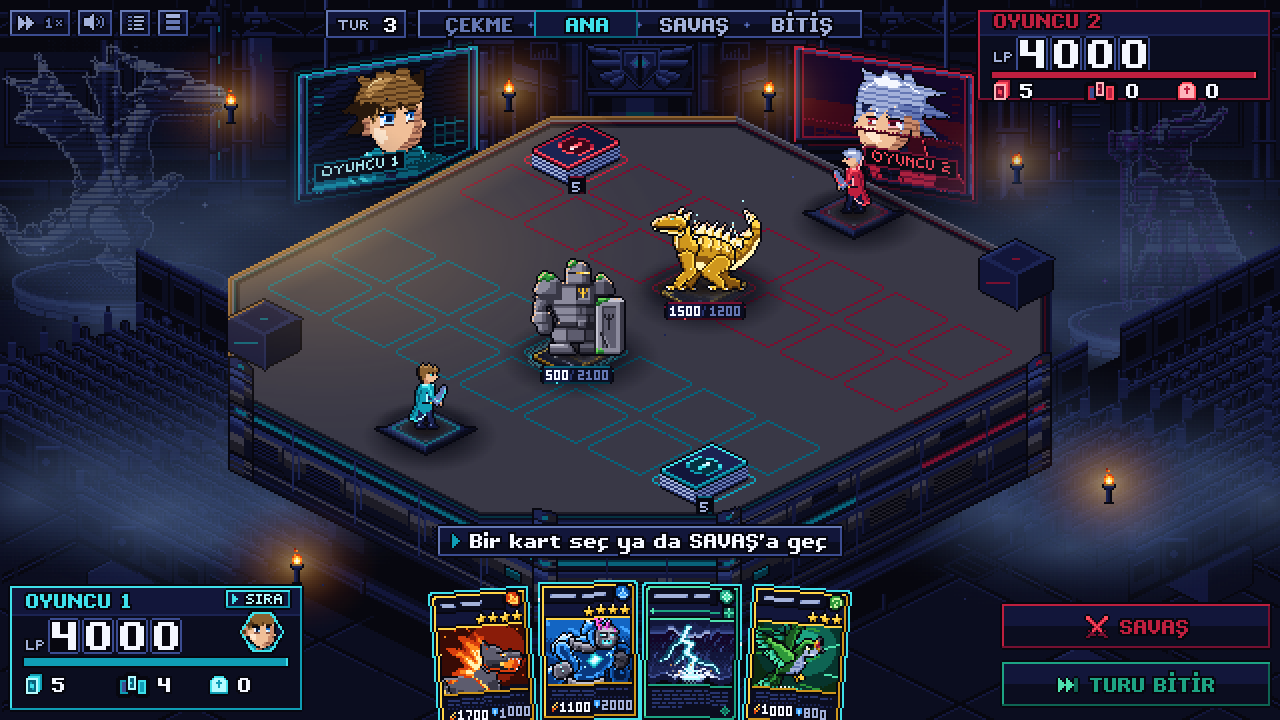
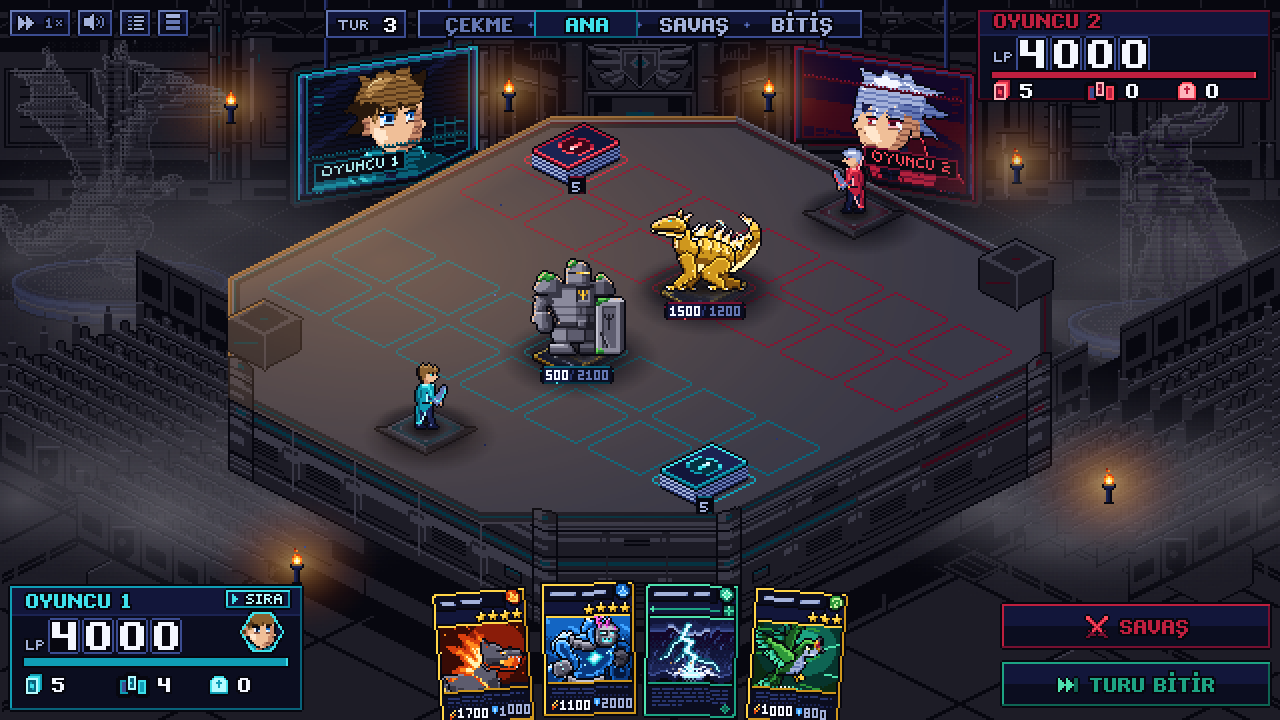
okunurluk(s2-3): arka plan gri tasa, zemin tasa, sis griye, sicak anahtar isik genis (v3; sahip karari: film kapilari calistirilmadi)

diff --git a/src/view/light/LightLayer.ts b/src/view/light/LightLayer.ts
@@ -1304,10 +1304,10 @@ function fieldColor(id: string): number {
 function ensureKeyLightTex(scene: Phaser.Scene): string {
   const key = 'light:v3keywash';
   if (scene.textures.exists(key)) return key;
-  const OX = 104;
-  const OY = 52;
-  const W = 280;
-  const H = 168;
+  const OX = PLATE_X0;
+  const OY = PLATE_Y0;
+  const W = PLATE_X1 - PLATE_X0;
+  const H = PLATE_Y1 - PLATE_Y0;
   const cv = document.createElement('canvas');
   cv.width = W;
   cv.height = H;
@@ -1325,19 +1325,20 @@ function ensureKeyLightTex(scene: Phaser.Scene): string {
         if (c < PLATE_C0 || c > PLATE_C1 || r < PLATE_R0 || r > PLATE_R1) continue;
         // Distance from the upper-left edge of the platform (c = PLATE_C0) and radial falloff from (162, 124)
         const edgeDist = (c - PLATE_C0) * 32;
-        const dx = (sx - 162) / 185;
-        const dy = (sy - 124) / 100;
+        // readability pass: a wider, warmer pool from the top left that fades smoothly across the board
+        const dx = (sx - 190) / 300;
+        const dy = (sy - 130) / 165;
         const d = Math.hypot(dx, dy);
         if (d >= 1) continue;
-        const falloff = Math.pow(1 - d, 1.65);
-        const rimBoost = edgeDist < 24 ? (1 - edgeDist / 24) * 0.18 : 0;
-        const alpha = Math.min(0.38, falloff * 0.26 + rimBoost);
+        const falloff = Math.pow(1 - d, 1.35);
+        const rimBoost = edgeDist < 24 ? (1 - edgeDist / 24) * 0.14 : 0;
+        const alpha = Math.min(0.42, falloff * 0.34 + rimBoost);
         if (alpha <= 0.005) continue;
         const idx = (y * W + x) * 4;
-        // Warm golden-amber key light grazing from the upper-left
-        data[idx] = 252;
-        data[idx + 1] = 196;
-        data[idx + 2] = 114;
+        // Warm amber key light grazing from the upper-left
+        data[idx] = 236;
+        data[idx + 1] = 168;
+        data[idx + 2] = 104;
         data[idx + 3] = Math.round(alpha * 255);
       }
     }
@@ -1420,7 +1421,7 @@ export class LightLayer {
       try {
         const keyTex = ensureKeyLightTex(scene);
         const keyImg = this.makeSteppedImage(keyTex, DEPTH.TILE + 2.2);
-        keyImg.setOrigin(0).setPosition(104, 52).setVisible(this.on);
+        keyImg.setOrigin(0).setPosition(PLATE_X0, PLATE_Y0).setVisible(this.on);
         this.steppedStaticImgs.push(keyImg);
         const padShdTex = ensureFloorShadowTex(scene, 34, 18);
         const dFootTex = ensureFootTex(scene, 14, 7);

diff --git a/src/art/arena-nt/platform.ts b/src/art/arena-nt/platform.ts
@@ -171,6 +171,20 @@ const RIM: readonly Color[] = [PAL.earth2, N2, PAL.stone2, N2, PAL.earth2, N2, P
 const RIM2: readonly Color[] = [PAL.earth1, N1, PAL.stone1, N1, PAL.earth1, N1, PAL.earth1, N0];
 const RIM3: readonly Color[] = [G2, N0, G1, N0, G2, N0, G2, N0];
 
+/**
+ * Readability pass (hedef-gorunum-2.png): the top plate is warm dark stone lit from the top left — flat
+ * tone bands (no noise) stepping from warm skin0 near the key light through stone1 to stone0 at the far
+ * right / bottom. A low-frequency wave breaks the band edges so they read as stone, not as rings.
+ */
+function topTone(x: number, y: number): Color {
+  // one calm stone tone; only the far bottom-right corner steps down. The warm top-left light is the soft
+  // key-light wash of the light layer (src/view/light/LightLayer.ts ensureKeyLightTex), not baked bands.
+  const dx = (x - 150) / 470;
+  const dy = (y - 110) / 260;
+  const wave = 0.03 * Math.sin(x * 0.045 + y * 0.07) + 0.02 * Math.cos(x * 0.021 - y * 0.05);
+  return Math.hypot(dx, dy) + wave < 0.92 ? G1 : G0;
+}
+
 function paintTop(S: Surface, x0: number, y0: number, x1: number, y1: number): PlatformArt['dashes'] {
   const dashPx: { x: number; y: number }[][] = Array.from({ length: 13 }, () => []);
   for (let y = Math.max(y0, PLATE_Y0); y < Math.min(y1, PLATE_Y1); y++) {
@@ -191,8 +205,8 @@ function paintTop(S: Surface, x0: number, y0: number, x1: number, y1: number): P
             dashPx[k].push({ x, y });
           }
         }
-        // Clean smooth dark slate board surface (tile lines are drawn solely by nt:floor play zones)
-        S.put(x, y, G1);
+        // warm stone board surface lit from the top left (tile lines are drawn solely by nt:floor play zones)
+        S.put(x, y, topTone(x, y));
         continue;
       }
       if (d32 < 1) {
@@ -221,8 +235,8 @@ function paintTop(S: Surface, x0: number, y0: number, x1: number, y1: number): P
         S.put(x, y, G0);
         continue;
       }
-      // Clean smooth dark slate border without speckles
-      S.put(x, y, G1);
+      // the border band between the coping and the zones: the same lit stone
+      S.put(x, y, topTone(x, y));
     }
   }
   return dashPx.filter((_, k) => k !== 6);

diff --git a/src/view/board-nt/calm-remap.ts b/src/view/board-nt/calm-remap.ts
@@ -1,0 +1,55 @@
+// Readability pass (docs/v3/ref/hedef-gorunum-2.png): the background of the Neon Tower arena reads as dark,
+// desaturated grey stone instead of saturated navy + neon. Applied once, at texture registration
+// (./textures.ts), to the background layers only (wall, stands, seats, platform hull, apron). Colours stay
+// inside src/art/palette.ts: every PAL tone maps onto another PAL tone. Warm tones (gold, fire, earth,
+// skin) are kept, so torches and the key light stay warm.
+
+import { PAL } from '../../art/palette';
+import type { PixelCanvas } from '../../art/pixel';
+
+/** Layers whose textures go through the calm remap. */
+export const CALM_LAYERS: ReadonlySet<string> = new Set(['wall', 'stands', 'crowd', 'platform', 'apron', 'pads']);
+
+const MAP = new Map<number, number>([
+  // navy → grey stone (one step brighter at the bottom so the hall is not pitch black)
+  [PAL.night0, PAL.stone0],
+  [PAL.night1, PAL.stone0],
+  [PAL.night2, PAL.stone1],
+  [PAL.night3, PAL.stone1],
+  [PAL.night4, PAL.stone2],
+  [PAL.steel, PAL.stone2],
+  [PAL.mist, PAL.stone3],
+  [PAL.white, PAL.stone3],
+  // violet accents → stone
+  [PAL.void0, PAL.stone0],
+  [PAL.void1, PAL.stone1],
+  [PAL.void2, PAL.stone1],
+  [PAL.void3, PAL.stone2],
+  [PAL.void4, PAL.stone3],
+  // neon: two tones down (a faint coloured seam, no glow)
+  [PAL.cyan1, PAL.cyan0],
+  [PAL.cyan2, PAL.cyan0],
+  [PAL.cyan3, PAL.cyan1],
+  [PAL.cyan4, PAL.cyan1],
+  [PAL.crim1, PAL.crim0],
+  [PAL.crim2, PAL.crim0],
+  [PAL.crim3, PAL.crim1],
+  [PAL.crim4, PAL.crim1],
+  [PAL.mag1, PAL.mag0],
+  [PAL.mag2, PAL.mag0],
+  [PAL.mag3, PAL.mag1],
+  [PAL.mag4, PAL.mag1],
+  [PAL.teal1, PAL.teal0],
+  [PAL.teal2, PAL.teal0],
+  [PAL.teal3, PAL.teal1],
+  [PAL.teal4, PAL.teal1],
+  [PAL.water1, PAL.water0],
+  [PAL.water2, PAL.water0],
+  [PAL.water3, PAL.water1],
+  [PAL.water4, PAL.water1],
+]);
+
+/** A remapped copy of `pc` (the source canvas may be cached by its painter: never mutated). */
+export function calmRemap(pc: PixelCanvas): PixelCanvas {
+  return pc.clone().map((c) => MAP.get(c) ?? c);
+}

diff --git a/src/art/arena-nt/floor.ts b/src/art/arena-nt/floor.ts
@@ -41,19 +41,19 @@ function slotFrame(player: 0 | 1, pile: boolean, state: number, boost: number): 
   // Crisp 1-px tile border (calm muted cyan1/crim1 when empty, cyan2/crim2 when occupied) on smooth G[1] slate
   const line: Color = empty ? ramp[1] : ramp[2];
   const stud: Color = NT_PAL.metal[3];
-  const G = NT_PAL.graphite;
   const isLine = (i: number, j: number): boolean => i >= 0 && j >= 0 && i < 64 && j < 32 && m.line.get(i, j) !== null;
   const isFill = (i: number, j: number): boolean => i >= 0 && j >= 0 && i < 64 && j < 32 && m.fill.get(i, j) !== null;
   for (let j = 0; j < 32; j++) {
     for (let i = 0; i < 64; i++) {
       if (m.tile.get(i, j) === null) continue;
-      let c: Color = isLine(i, j) ? line : G[1];
+      // readability pass: the slot interior stays transparent so the lit stone plate shows through
+      let c: Color | null = isLine(i, j) ? line : null;
       if (state === SLOT_DOWN && !isFill(i, j)) {
         const dx = Math.abs(i + 0.5 - 32);
         const dy = Math.abs(j + 0.5 - 16);
         if ((dx > 28 && dy < 2.5) || (dy > 13 && dx < 3.5)) c = stud;
       }
-      p.set(i, j, c);
+      if (c !== null) p.set(i, j, c);
     }
   }
   void pile;

diff --git a/src/view/board-nt/textures.ts b/src/view/board-nt/textures.ts
@@ -5,6 +5,7 @@
 import type Phaser from 'phaser';
 import type { PixelCanvas } from '../../art/pixel';
 import { canvasTexture } from '../../art/textures';
+import { CALM_LAYERS, calmRemap } from './calm-remap';
 
 /** Build profile of the Neon Tower textures built so far (ms per layer, texture bytes / count). */
 export const NT_BUILD: { ms: Record<string, number>; bytes: number; textures: number } = { ms: {}, bytes: 0, textures: 0 };
@@ -13,7 +14,8 @@ export const NT_BUILD: { ms: Record<string, number>; bytes: number; textures: nu
 export function ensureNtTexture(scene: Phaser.Scene, layer: string, key: string, paint: () => PixelCanvas): string {
   if (scene.textures.exists(key)) return key;
   const t0 = performance.now();
-  const pc = paint();
+  // readability pass: the background layers go through the calm grey-stone remap (./calm-remap.ts)
+  const pc = CALM_LAYERS.has(layer) ? calmRemap(paint()) : paint();
   canvasTexture(scene, key, pc);
   NT_BUILD.ms[layer] = Math.round((performance.now() - t0) * 10) / 10;
   NT_BUILD.bytes += pc.w * pc.h * 4;

diff --git a/src/view/board-calm/BoardViewCalm.ts b/src/view/board-calm/BoardViewCalm.ts
@@ -225,6 +225,8 @@ export interface BoardViewCalmOptions {
      * the calm outline is one column inside the Neon Tower plate and its trim would lie across the plate (J1: the plate paints its own line).
      */
     trims?: boolean;
+    /** The calm zone pads' own pixels (alpha 0): the Neon Tower plate shows through its slot lines (readability pass). */
+    pads?: boolean;
   };
 }
 
@@ -669,7 +671,7 @@ export class BoardViewCalm {
         row: c.row,
         x: s.x,
         y: s.y,
-        pad: this.add(this.scene.add.image(s.x, s.y, CALM.atlas, CALM.pad(z.player, z.spot, z.index)).setDepth(D.pad)),
+        pad: this.add(this.scene.add.image(s.x, s.y, CALM.atlas, CALM.pad(z.player, z.spot, z.index)).setDepth(D.pad).setAlpha(this.skip.pads ? 0 : 1)),
         fill: this.add(this.scene.add.image(s.x, s.y, CALM.atlas, CALM.maskFill).setDepth(D.padFill).setVisible(false)),
         line: this.add(this.scene.add.image(s.x, s.y, CALM.atlas, CALM.maskLine).setDepth(D.padLine).setVisible(false)),
         base: CALM_T.line[z.player],

diff --git a/src/art/arena-nt/holo-bake.ts b/src/art/arena-nt/holo-bake.ts
@@ -32,10 +32,10 @@ export interface HoloLook {
 }
 
 export const HOLO_LOOKS: readonly [HoloLook, HoloLook] = [
-  // Kristal Ejder: calm slate-blue tones (sits calmly in fog without harsh white glare)
-  { ramp: [PAL.night0, PAL.night1, PAL.night2, PAL.night3, PAL.steel, PAL.mist], flip: false, scale: 4 / 3, bands: [0.1, 0.28, 0.5, 0.74, 0.9] },
-  // Uçurum Büyücüsü: calm slate-violet tones
-  { ramp: [PAL.night0, PAL.void0, PAL.void1, PAL.night3, PAL.void2, PAL.steel], flip: true, scale: 1.5, bands: [0.18, 0.4, 0.66, 0.87, 0.97] },
+  // Kristal Ejder: dim grey stone statue in the fog (readability pass, hedef-gorunum-2.png)
+  { ramp: [PAL.stone0, PAL.stone1, PAL.stone1, PAL.stone2, PAL.stone2, PAL.stone3], flip: false, scale: 4 / 3, bands: [0.1, 0.28, 0.5, 0.74, 0.9] },
+  // Uçurum Büyücüsü: the same stone, a hair of violet left in the mid band
+  { ramp: [PAL.stone0, PAL.stone1, PAL.void1, PAL.stone2, PAL.stone2, PAL.stone3], flip: true, scale: 1.5, bands: [0.18, 0.4, 0.66, 0.87, 0.97] },
 ];
 
 export interface Box {

diff --git a/src/view/board-nt/lights.ts b/src/view/board-nt/lights.ts
@@ -43,10 +43,11 @@ function paintMultiLobeFog(
     ctx.translate(l.cx, l.cy);
     ctx.scale(1, l.ry / l.rx);
     const g = ctx.createRadialGradient(0, 0, 0, 0, 0, l.rx);
-    g.addColorStop(0, `rgba(92, 118, 164, ${l.a0})`);
-    g.addColorStop(0.45, `rgba(58, 78, 118, ${l.a1})`);
-    g.addColorStop(0.78, `rgba(28, 40, 68, ${(l.a1 * 0.48).toFixed(3)})`);
-    g.addColorStop(1, 'rgba(12, 18, 34, 0)');
+    // neutral grey fog (target: hedef-gorunum-2.png), not blue
+    g.addColorStop(0, `rgba(118, 116, 124, ${l.a0})`);
+    g.addColorStop(0.45, `rgba(84, 82, 92, ${l.a1})`);
+    g.addColorStop(0.78, `rgba(46, 45, 54, ${(l.a1 * 0.48).toFixed(3)})`);
+    g.addColorStop(1, 'rgba(24, 23, 30, 0)');
     ctx.fillStyle = g;
     ctx.beginPath();
     ctx.arc(0, 0, l.rx, 0, Math.PI * 2);

diff --git a/src/view/board-nt/index.ts b/src/view/board-nt/index.ts
@@ -35,7 +35,7 @@ import { createWallLayer } from './wall';
 type Img = Phaser.GameObjects.Image;
 
 /** Which parts of the calm arena the Neon Tower layers have replaced so far (skeleton: none). */
-export const NT_SKIP: NonNullable<BoardViewCalmOptions['skip']> = { background: true, slabImage: true, trims: true };
+export const NT_SKIP: NonNullable<BoardViewCalmOptions['skip']> = { background: true, slabImage: true, trims: true, pads: true };
 
 export class BoardViewNt implements ArenaViewApi {
   readonly scene: Phaser.Scene;

diff --git a/docs/v3/oturum-okunurluk.md b/docs/v3/oturum-okunurluk.md
@@ -82,6 +82,34 @@
   beyaz flaş ve `trimOverride` değişmedi. Konum, boyut, yazı aynı. Paylaşılan `styleTrim` / `FRAME_V3` sabitleri
   (testlerde sabitlenmiş) **değişmedi**; yalnızca panelin istediği kaldırma (lift) değeri değişti.
 - Görüntü: `shots/ok/s2-hudpanel.png` (öncesi `shots/ok/s1-strips.png`, yakın plan `shots/ok/hud-bl.png`).
+- tsc temiz, vitest (HUD + arena-nt) 102/102. Film kapıları yarıda kesildi (v1 ilk 4 film IDENTICAL). Commit `e85231b`.
+
+### Sahip kararı (2026-11-02): kontroller atlanıyor, doğrudan hedefe benzetme
+Sahip: "hiçbir kontrol yapma, arenayı direkt hedef görsele benzet, neresi olmadı ben söylerim". Bu andan sonra
+**film kapıları (v1 / a6v1), vitest ve palcheck çalıştırılmadı**; yalnızca `tsc` ve her adımda bir ekran görüntüsü.
+Claude birleştirmeden önce kapıları çalıştırmalı.
+
+### Adım 3 — arka plan gri taşa, zemin taşa, sis griye (mevcut paletle, A seçeneği)
+- `src/view/board-nt/calm-remap.ts` (yeni) + `src/view/board-nt/textures.ts`: arka plan katmanlarının
+  (wall, stands, crowd, platform, apron, pads) dokuları kayıt anında bir PAL→PAL tablosundan geçiyor:
+  lacivert `night*` / `steel` / `mist` / `void*` → `stone0..3`; neon `cyan/crim/mag/teal/water` iki ton aşağı.
+  Sıcak tonlar (gold, fire, earth, skin) olduğu gibi → meşaleler ve sıcak ışık sıcak kalıyor.
+  Yalnızca Neon Tower (v3) dokuları; v1 arenası bu yoldan geçmiyor.
+- `src/view/board-nt/lights.ts`: sis gradyanı mavi → nötr gri.
+- `src/art/arena-nt/holo-bake.ts`: iki hologram heykel gri taş tonlarında (büyücüde bir tutam `void1`).
+- `src/art/arena-nt/platform.ts`: üst plaka tek sakin taş tonu (`stone1`), yalnızca uzak sağ-alt köşe `stone0`.
+- `src/art/arena-nt/floor.ts`: slot içleri saydam (yalnızca 1-px çizgi), plaka ve ışık altından görünüyor.
+- `src/view/board-calm/BoardViewCalm.ts` (+ `skip.pads`, ek alan) ve `src/view/board-nt/index.ts` (`NT_SKIP.pads`):
+  sakin tahtanın kendi lacivert pad görselleri v3 Neon Tower'da alpha 0.
+- `src/view/light/LightLayer.ts`: sol üst sıcak anahtar ışık tüm plakayı kapsıyor, daha geniş ve daha sıcak
+  (`ensureKeyLightTex`, doku plaka boyutunda).
+- Görüntüler: `shots/ok/s3-grey.png` → `s5-pads.png` → `s6-key.png` → `s7-statue.png` (son hâl).
+- `docs/v3/ref/okunurluk-sonrasi.png` = `s7-statue.png`. `okunurluk-oncesi.png` (taban `d5dc22b`) değişmedi.
+
+### Açık konular
+- Film kapıları ve palcheck bu adımdan sonra çalıştırılmadı (sahip kararı).
+- Ekran görüntüleri yük altında bazen `__neon.ready` zaman aşımına düşüyor, görüntü yine de yazılıyor.
+- Sahibin geri bildirimi bekleniyor (hangi bölge hedefe benzemedi).
 
 ## Kontrol Kapıları (Gates)
 - `npm run typecheck`: Temiz (0 hata)
